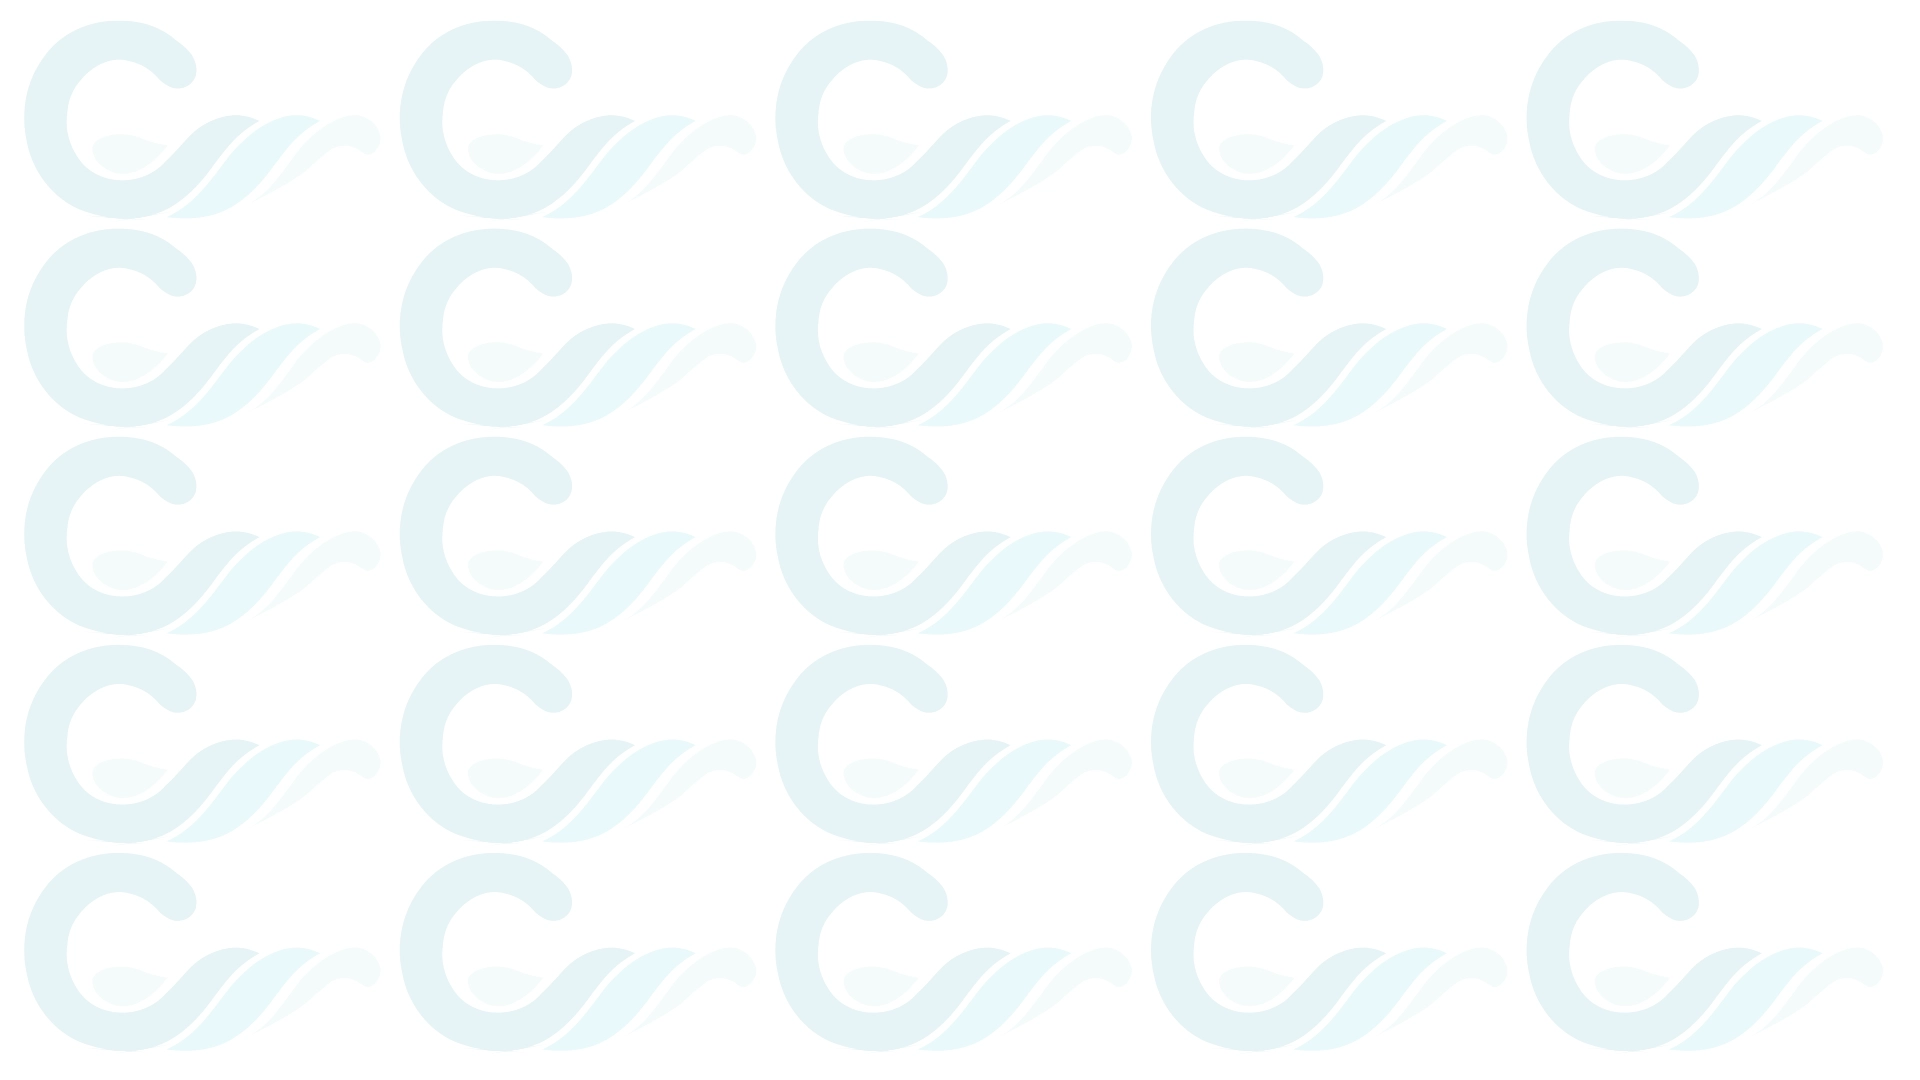
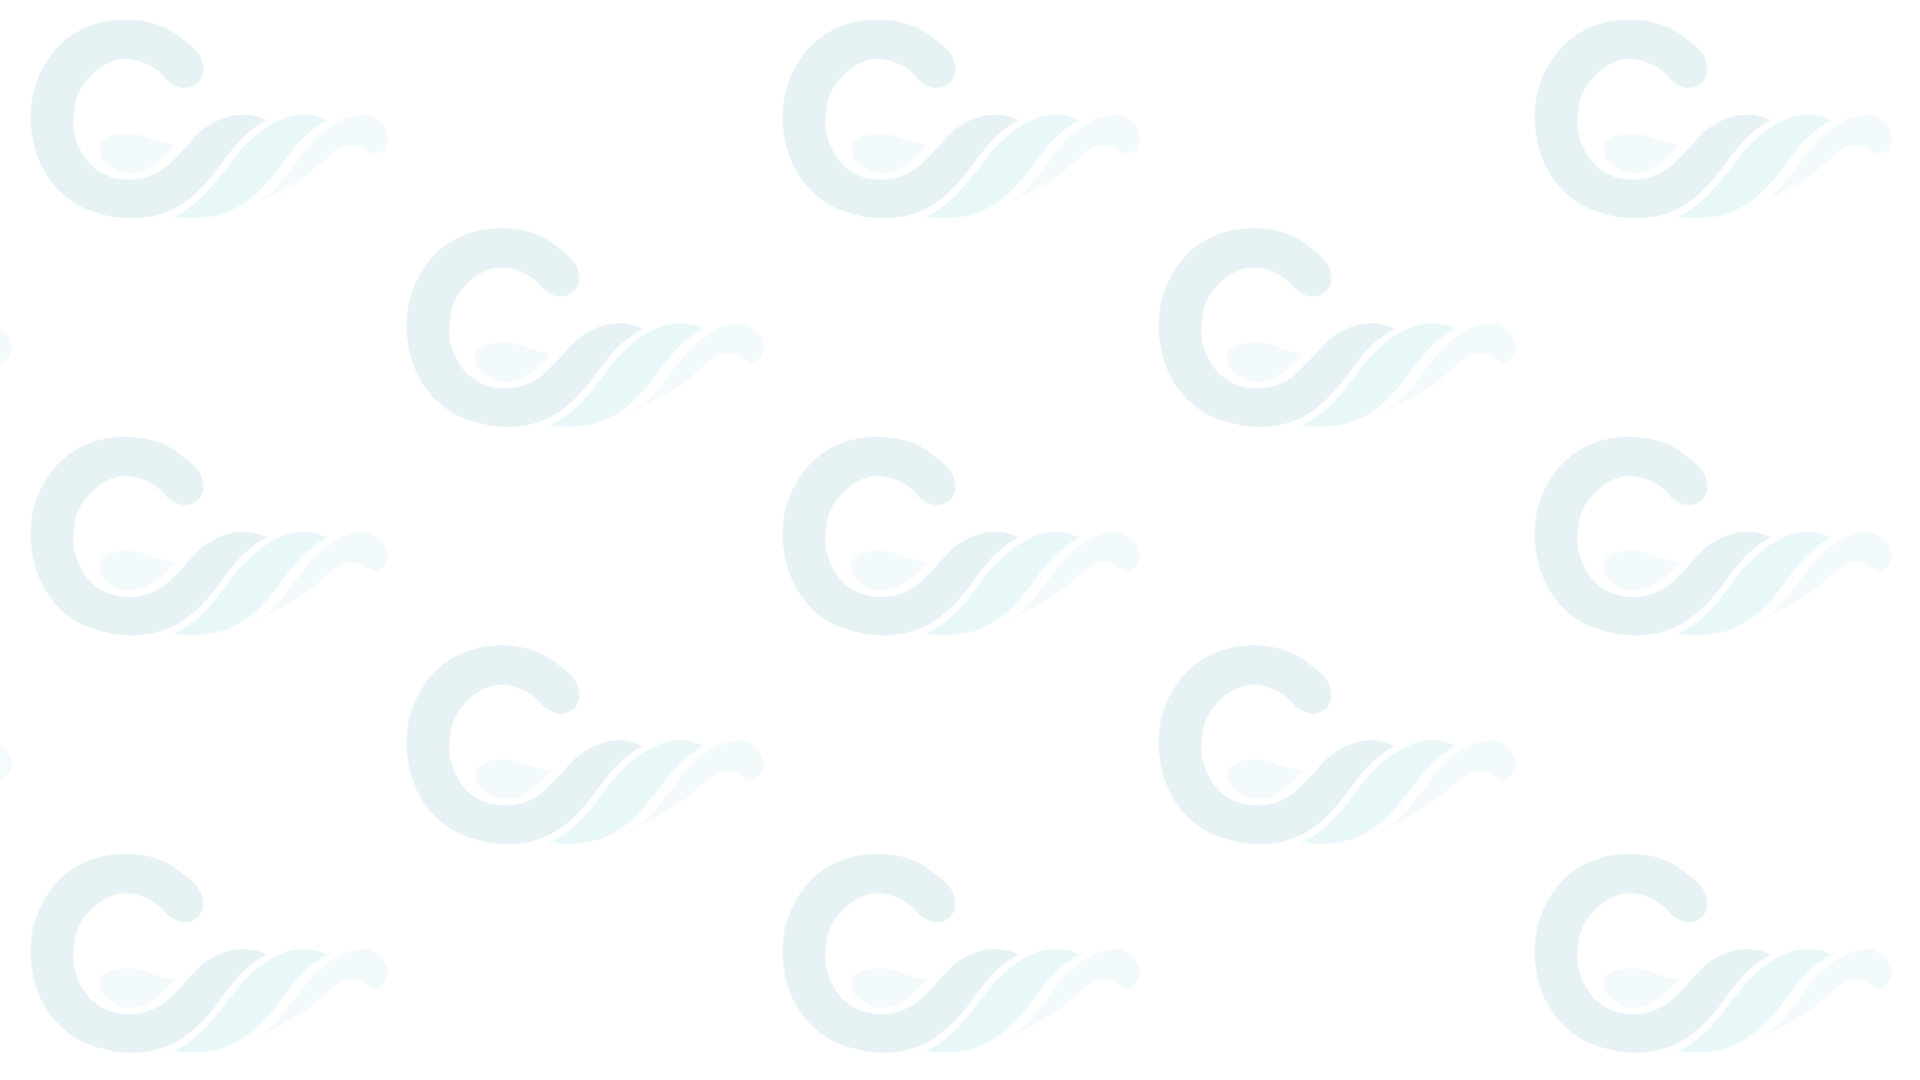
added gallery to gallery page and changed background image for website.

diff --git a/gallery.html b/gallery.html
@@ -61,14 +61,24 @@
 
     <!-- Main element to hold all key sections of the home page. it is not part of the grid structure -->
     <main>
-        <!-- Portfolio | Gallery | Enquiry -->
-        <section class="container">
+        
+        <!-- Gallery -->
+        <div class="container">
             <div class="row">
-                <div class="col-12 col-md-6 col-xl-3">Portfolio link</div>
-                <div class="col-12 col-md-6 col-xl-3">Gallery link</div>
-                <div class="col-12 col-md-6 col-xl-3">Enquiry link</div>
+            <div class="col-md-3">
+            <img src="assets/images/gallery-bazaar-logo-design.webp" class="img-fluid img-thumbnail" alt="">
             </div>
-        </section>
+            <div class="col-md-3">
+            <img src="assets/images/gallery-bazaar-store-sign.webp" class="img-fluid img-thumbnail" alt="">
+            </div>
+            <div class="col-md-3">
+            <img src="assets/images/gallery-mytholmroyd-logo.webp" class="img-fluid img-thumbnail" alt="">
+            </div>
+            <div class="col-md-3">
+            <img src="assets/images/gallery-mytholmroyd-mock-up.webp" class="img-fluid img-thumbnail" alt="">
+            </div>
+            </div>
+        </div> 
     </main>
 
     <!-- Footer / contact section -->
